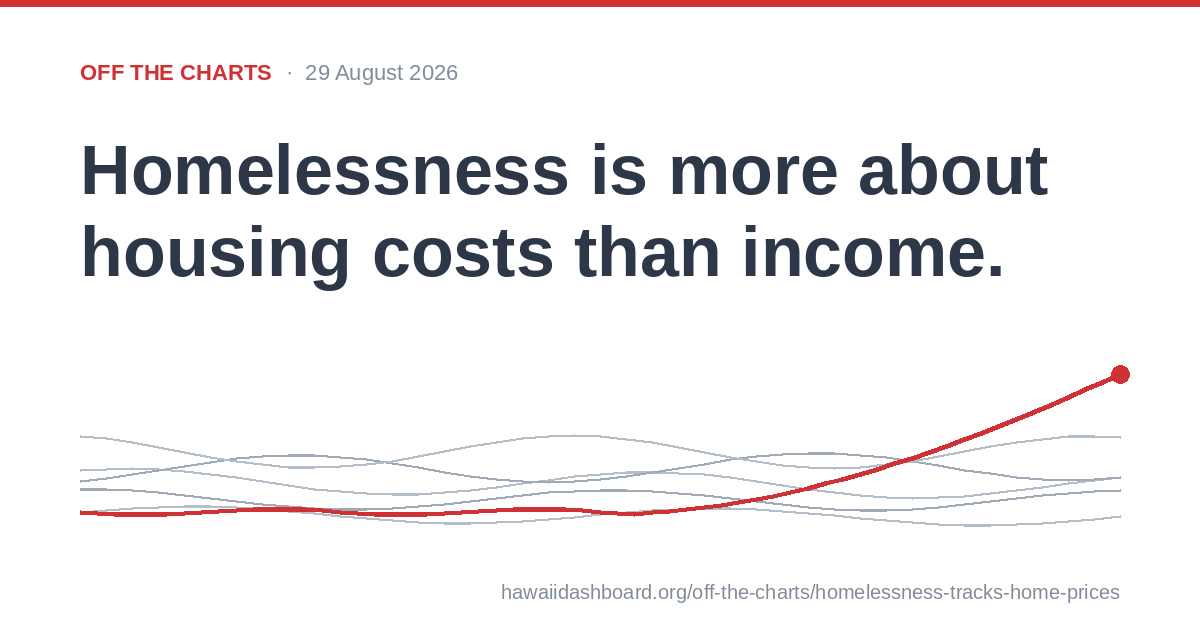
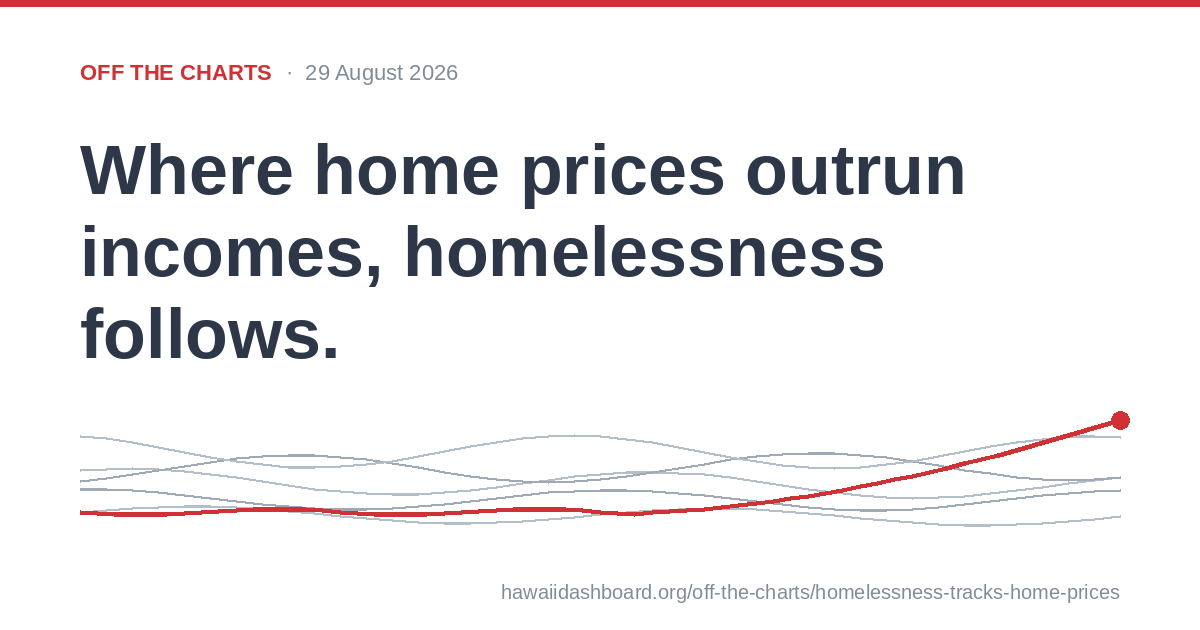
feat(otc): retitle the homelessness post
"Where home prices outrun incomes, homelessness follows." — keeps the
user's 'outrun' energy, restores the subject the bare version dropped,
and rules When-vs-Where for Where: the post proves a cross-state
pattern, not a temporal sequence, and the body's thesis line already
says 'where homes cost more'. Title tag, OG/twitter, JSON-LD, archive,
and OG card all regenerated; slug unchanged.

diff --git a/off-the-charts/homelessness-tracks-home-prices/index.html b/off-the-charts/homelessness-tracks-home-prices/index.html
@@ -4,12 +4,12 @@
     <meta charset="UTF-8">
     <meta name="viewport" content="width=device-width, initial-scale=1.0">
     <meta name="robots" content="max-image-preview:large, max-snippet:-1">
-    <title>Homelessness is more about housing costs than income. | Off the Charts</title>
+    <title>Where home prices outrun incomes, homelessness follows. | Off the Charts</title>
     <meta name="description" content="Alabama&rsquo;s cost-adjusted income per person is about the same as Hawai&#x02BB;i&rsquo;s, with far less street homelessness. Where homes cost more, more people are homeless; income matters far less.">
     <meta name="otc:dek" content="Adjusting for cost of living, Alabama&rsquo;s income per person is about the same as Hawai&#x02BB;i&rsquo;s, yet in 2024 it had about 5 unsheltered people per 10,000 residents against Hawai&#x02BB;i&rsquo;s 28. The five priciest housing markets all rank among the ten worst for homelessness. Homelessness follows housing costs, not paychecks.">
     <meta property="og:type" content="article">
     <meta property="og:url" content="https://hawaiidashboard.org/off-the-charts/homelessness-tracks-home-prices/">
-    <meta property="og:title" content="Homelessness is more about housing costs than income.">
+    <meta property="og:title" content="Where home prices outrun incomes, homelessness follows.">
     <meta property="og:description" content="Alabama&rsquo;s cost-adjusted income per person is about the same as Hawai&#x02BB;i&rsquo;s, with far less street homelessness. Where homes cost more, more people are homeless; income matters far less.">
     <meta property="og:image" content="https://hawaiidashboard.org/assets/og/off-the-charts/homelessness-tracks-home-prices.png">
     <meta property="og:image:width" content="1200">
@@ -18,7 +18,7 @@
     <meta property="article:published_time" content="2026-08-29">
     <meta property="article:section" content="Off the Charts">
     <meta name="twitter:card" content="summary_large_image">
-    <meta name="twitter:title" content="Homelessness is more about housing costs than income.">
+    <meta name="twitter:title" content="Where home prices outrun incomes, homelessness follows.">
     <meta name="twitter:description" content="Alabama&rsquo;s cost-adjusted income per person is about the same as Hawai&#x02BB;i&rsquo;s, with far less street homelessness. Where homes cost more, more people are homeless; income matters far less.">
     <meta name="twitter:image" content="https://hawaiidashboard.org/assets/og/off-the-charts/homelessness-tracks-home-prices.png">
     <link rel="canonical" href="https://hawaiidashboard.org/off-the-charts/homelessness-tracks-home-prices/">
@@ -28,7 +28,7 @@
     {
       "@context": "https://schema.org",
       "@type": "Article",
-      "headline": "Homelessness is more about housing costs than income.",
+      "headline": "Where home prices outrun incomes, homelessness follows.",
       "description": "Alabama’s cost-adjusted income per person is about the same as Hawaiʻi’s, with far less street homelessness. Where homes cost more, more people are homeless; income matters far less.",
       "datePublished": "2026-08-29",
       "dateModified": "2026-08-29",
@@ -58,7 +58,7 @@
       "itemListElement": [
         { "@type": "ListItem", "position": 1, "name": "Dashboard", "item": "https://hawaiidashboard.org/" },
         { "@type": "ListItem", "position": 2, "name": "Off the Charts", "item": "https://hawaiidashboard.org/off-the-charts/" },
-        { "@type": "ListItem", "position": 3, "name": "Homelessness is more about housing costs than income.", "item": "https://hawaiidashboard.org/off-the-charts/homelessness-tracks-home-prices/" }
+        { "@type": "ListItem", "position": 3, "name": "Where home prices outrun incomes, homelessness follows.", "item": "https://hawaiidashboard.org/off-the-charts/homelessness-tracks-home-prices/" }
       ]
     }
     </script>
@@ -117,7 +117,7 @@
     <main>
     <article class="otc-post">
         <p class="otc-post-date">29 August 2026</p>
-        <h1>Homelessness is more about housing costs than income.</h1>
+        <h1>Where home prices outrun incomes, homelessness follows.</h1>
 
         <div class="otc-actions">
             <button type="button" class="share-btn"

diff --git a/off-the-charts/index.html b/off-the-charts/index.html
@@ -51,7 +51,7 @@
       "blogPost": [
         {
           "@type": "BlogPosting",
-          "headline": "Homelessness is more about housing costs than income.",
+          "headline": "Where home prices outrun incomes, homelessness follows.",
           "url": "https://hawaiidashboard.org/off-the-charts/homelessness-tracks-home-prices/",
           "datePublished": "2026-08-29",
           "image": "https://hawaiidashboard.org/assets/og/off-the-charts/homelessness-tracks-home-prices.png"
@@ -189,7 +189,7 @@
 
         <article class="otc-archive-item" id="homelessness-tracks-home-prices">
             <p class="otc-archive-date">29 August 2026</p>
-            <h2><a href="/off-the-charts/homelessness-tracks-home-prices/">Homelessness is more about housing costs than income.</a></h2>
+            <h2><a href="/off-the-charts/homelessness-tracks-home-prices/">Where home prices outrun incomes, homelessness follows.</a></h2>
             <p class="otc-dek">Adjusting for cost of living, Alabama&rsquo;s income per person is about the same as Hawai&#x02BB;i&rsquo;s, yet in 2024 it had about 5 unsheltered people per 10,000 residents against Hawai&#x02BB;i&rsquo;s 28. The five priciest housing markets all rank among the ten worst for homelessness. Homelessness follows housing costs, not paychecks.</p>
             <p class="otc-read-more"><a href="/off-the-charts/homelessness-tracks-home-prices/">Read post &rarr;</a></p>
         </article>

diff --git a/scripts/generate-og-off-the-charts-posts.py b/scripts/generate-og-off-the-charts-posts.py
@@ -35,7 +35,7 @@ SLATE    = (56, 75, 91)
 POSTS = [
     {
         "slug": "homelessness-tracks-home-prices",
-        "title": "Homelessness is more about housing costs than income.",
+        "title": "Where home prices outrun incomes, homelessness follows.",
         "date":  "29 August 2026",
         # Outlier line: Hawaiʻi worst-tier on homelessness with the nation's priciest homes.
         "outlier": "high",
